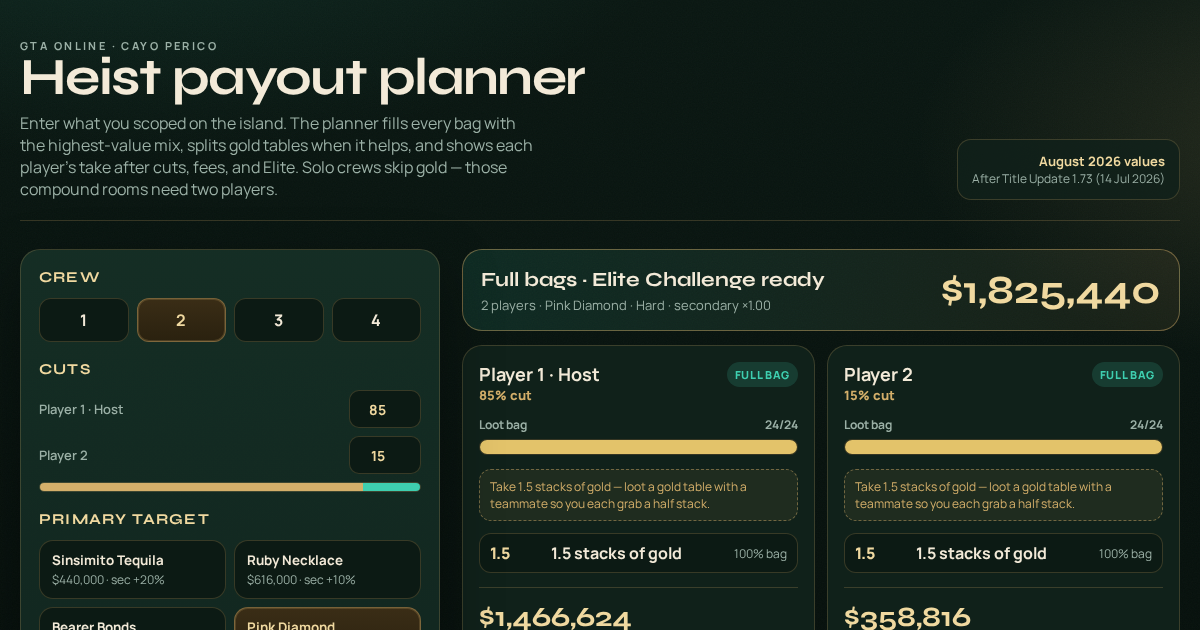
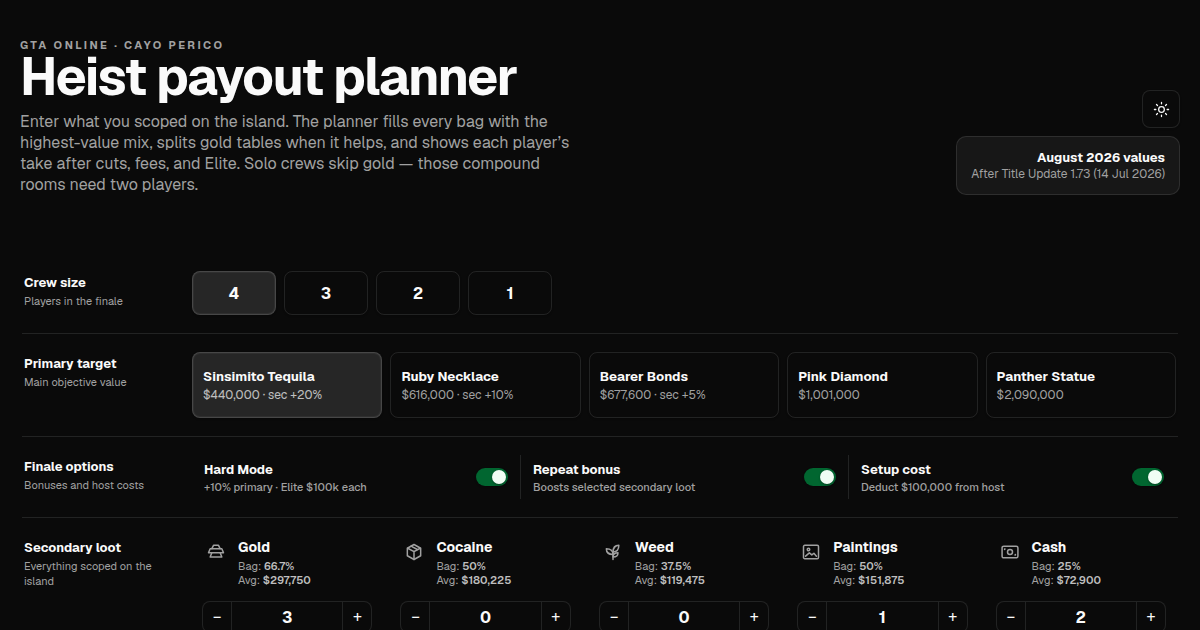
Refresh Open Graph preview

diff --git a/index.html b/index.html
@@ -14,7 +14,7 @@
   <meta property="og:title" content="GTA V | Cayo Perico Heist Calculator" />
   <meta property="og:description" content="Plan GTA Online Cayo Perico loot bags, crew cuts, fees, and Elite Challenge payouts." />
   <meta property="og:url" content="https://gta.panas.dev/" />
-  <meta property="og:image" content="https://gta.panas.dev/og-image.png" />
+  <meta property="og:image" content="https://gta.panas.dev/og-image.png?v=20260829" />
   <meta property="og:image:width" content="1200" />
   <meta property="og:image:height" content="630" />
   <meta property="og:image:alt" content="Cayo Perico Payout Calculator interface" />
@@ -22,7 +22,7 @@
   <meta name="twitter:card" content="summary_large_image" />
   <meta name="twitter:title" content="GTA V | Cayo Perico Heist Calculator" />
   <meta name="twitter:description" content="Plan GTA Online Cayo Perico loot bags, crew cuts, fees, and Elite Challenge payouts." />
-  <meta name="twitter:image" content="https://gta.panas.dev/og-image.png" />
+  <meta name="twitter:image" content="https://gta.panas.dev/og-image.png?v=20260829" />
   <meta name="twitter:image:alt" content="Cayo Perico Payout Calculator interface" />
 
   <link rel="preconnect" href="https://fonts.googleapis.com" />
